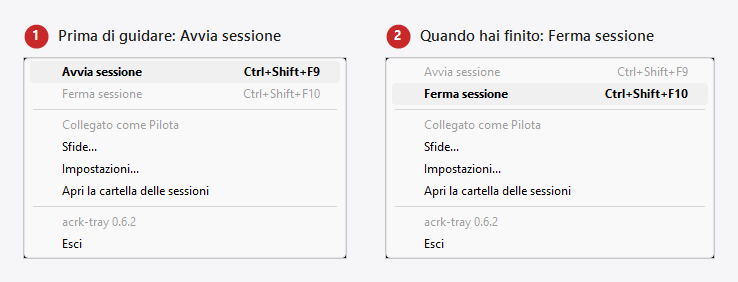
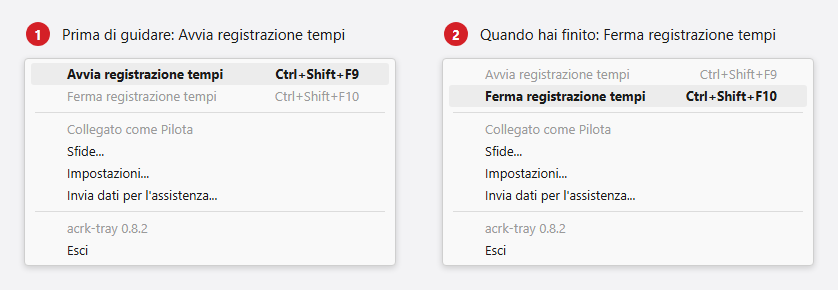
acrk-tray 0.9.0: documents

diff --git a/CHANGELOG.it.md b/CHANGELOG.it.md
@@ -5,6 +5,41 @@
 Tutte le versioni di acrk-tray, dalla più recente. Le versioni seguono `MAJOR.MINOR.PATCH`;
 il setup di ognuna è nella pagina [Releases](https://github.com/agastal/acrkchallenge-Release/releases).
 
+## [0.9.0] - 2026-10-01
+
+Un pannello pilota per il secondo monitor, con il distacco dal tuo record mentre guidi, e
+un'immagine con ogni tempo anche quando l'app non vede la schermata della sessione.
+
+### Novità
+
+- *Pannello pilota...* nel menu: una finestra larga e bassa per il secondo monitor. Un pulsante
+  avvia e ferma la registrazione dei tempi, o arma il tentativo della sfida che scegli nel suo
+  elenco; accanto, il cronometro della prova, velocità e marcia, le barre di acceleratore e freno e
+  la condizione richiesta dalla sfida. Ricorda dove lo metti e può restare sopra le altre finestre
+  (Impostazioni).
+- Il pannello mostra quanto sei avanti (verde) o indietro (rosso) rispetto al tuo miglior tempo
+  sulla stessa prova speciale, auto e condizione, metro per metro, e all'arrivo resta sul distacco
+  finale. La prima prova che finisci con il pannello aperto diventa il riferimento; ogni prova più
+  veloce lo sostituisce. Queste tracce restano sul tuo PC.
+- Quando guidi una prova di una sfida senza avviare il tentativo, un avviso ti dice che il tempo è
+  valso solo per il time attack.
+
+### Modifiche
+
+- *Avvia/Ferma sessione* ora si chiama *Avvia/Ferma registrazione tempi*, per non confonderlo con
+  AVVIA SESSIONE del gioco.
+- Quando l'app non vede la schermata della sessione prima della prova (un'altra modalità di gioco,
+  l'app aperta dentro la prova), cattura invece un'immagine della finestra di gioco sulla linea di
+  partenza, prima del via, e dice all'organizzatore perché mancava.
+- La schermata della sessione viene riconosciuta su più formati di schermo (16:10, ultrawide) e
+  quando il gioco è dietro un'altra finestra che non lo copre, come il pannello pilota.
+- *Apri la cartella delle sessioni* è uscito dal menu: il wiki dice dov'è la cartella, e *Invia dati per
+  l'assistenza...* manda quello che serve.
+
+### Correzioni
+
+- I nomi lunghi delle scorciatoie non vengono più tagliati nelle Impostazioni.
+
 ## [0.8.1] - 2026-09-30
 
 Una correzione per i tempi arrivati al sito senza la loro speciale.

diff --git a/CHANGELOG.md b/CHANGELOG.md
@@ -5,6 +5,40 @@
 Every release of acrk-tray, newest first. Versions follow `MAJOR.MINOR.PATCH`; the setup of
 each one is on the [Releases](https://github.com/agastal/acrkchallenge-Release/releases) page.
 
+## [0.9.0] - 2026-10-01
+
+A driver panel for a second monitor, with the gap to your record while you drive, and a picture
+with every time even when the app does not see the session screen.
+
+### New
+
+- *Driver panel...* in the menu: a wide, short window for a second monitor. One button starts and
+  stops recording times, or arms the attempt of the challenge you pick in its list; beside it the
+  stage clock, speed and gear, the throttle and brake bars, and the condition the challenge wants.
+  It remembers where you put it, and it can stay above other windows (Settings).
+- The panel shows how far ahead (green) or behind (red) you are against your own best time on the
+  same stage, car and condition, metre by metre, and holds the final gap at the finish. The first
+  run you finish with the panel open becomes the reference; every faster one replaces it. These
+  traces stay on your PC.
+- When you drive a stage of a challenge without starting the attempt, a notice tells you the time
+  counted only for the time attack.
+
+### Changed
+
+- *Start/Stop session* is now *Start/Stop recording times*, so it is not mistaken for the game's own
+  START SESSION.
+- When the app does not see the session screen before the stage (another game mode, the app opened
+  in the stage), it takes one picture of the game window at the start line instead, before you set
+  off, and tells the organiser why the session screen was missing.
+- The session screen is recognised on more screen shapes (16:10, ultrawide) and when the game is
+  behind another window that does not cover it, such as the driver panel.
+- *Open sessions folder* left the menu: the wiki says where the folder is, and *Send diagnostics to
+  the organiser...* sends what is needed.
+
+### Fixed
+
+- Long shortcut names no longer get cut in Settings.
+
 ## [0.8.1] - 2026-09-30
 
 A fix for times that reached the site without their stage.

diff --git a/README.it.md b/README.it.md
@@ -31,6 +31,10 @@ da link condivisi altrove.
   sfide aperte;
 - finestra **Sfide**: le weekly e gli eventi a più prove aperti in questo momento, con le
   regole di ciascuno; un clic arma il tuo tentativo su una prova prima di guidarla;
+- **[Pannello pilota](https://github.com/agastal/acrkchallenge-Release/wiki/Pannello-pilota)** (spento
+  di serie): una finestra per il secondo monitor per avviare o fermare una sfida con un pulsante e
+  vedere cronometro, distacco dal tuo record, velocità, marcia e le barre acceleratore/freno mentre
+  guidi;
 - un avviso con suono **prima della partenza** quando la prova che si sta caricando non è quella
   della sfida;
 - suoni per quello che conta mentre guidi (tempo ricevuto, tentativo chiuso o ritirato), perché
@@ -87,7 +91,9 @@ Cattura **solo la finestra di Assetto Corsa Rally, e solo mentre il gioco è in 
 mai il desktop o altri programmi. Mostra quello che mostra il gioco in quel momento, compreso
 il nome del tuo profilo di gioco se visibile. La vede solo l'organizzatore, nella console del
 sito; non compare nelle pagine pubbliche. L'app osserva quella schermata anche quando non
-registra, e tiene l'immagine solo in memoria finché non invia una prova di quella speciale.
+registra, e tiene l'immagine solo in memoria finché non invia una prova di quella speciale. Se
+non ha visto quella schermata prima del caricamento, cattura invece un'immagine della finestra di
+gioco sulla linea di partenza, prima del via, e invia una breve nota tecnica sul perché mancava.
 
 **Dati per l'assistenza.** Solo se lo scegli dal menu (*Invia dati per l'assistenza...*),
 l'app manda all'organizzatore uno zip con il registro e la telemetria delle ultime sessioni, le

diff --git a/README.md b/README.md
@@ -32,6 +32,9 @@ mirrors or links shared elsewhere.
   open challenges;
 - **Challenges** window: the weeklies and multi-stage events open right now, with the rules
   of each; one click arms your attempt on a stage before you drive it;
+- **[Driver panel](https://github.com/agastal/acrkchallenge-Release/wiki/Driver-panel)** (off by
+  default): a second-monitor window to start or stop a challenge with one button and watch the
+  clock, the gap to your record, speed, gear and the throttle/brake bars while you drive;
 - a warning with a sound **before the start** when the stage loading is not the challenge's;
 - sounds for what matters while you drive (time received, attempt closed or retired), since
   Windows holds notifications back while a game is full screen;
@@ -87,7 +90,9 @@ It captures **only the Assetto Corsa Rally window, only while the game is in fro
 the desktop or other programs. It shows what the game shows at that moment, including
 your in-game profile name if visible. Only the organiser sees it, in the site's console;
 it is not shown on public pages. The app watches for that screen also when it is not
-recording, keeping the picture in memory only until a run of that stage is sent.
+recording, keeping the picture in memory only until a run of that stage is sent. If it did not
+see that screen before the stage loaded, it takes one picture of the game window at the start
+line, before the run starts, instead, and sends a short technical note on why the session screen was missing.
 
 **Diagnostics.** Only if you choose it from the menu (*Send diagnostics to the organiser...*),
 the app sends the organiser a zip with the log and telemetry of your latest sessions, its
